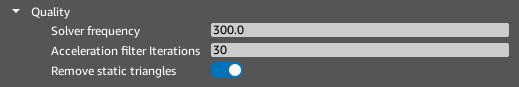
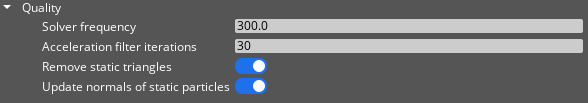
Added 'Update normals of static particles' field to Cloth Component. Picture updated as well.

diff --git a/content/docs/user-guide/components/reference/cloth.md b/content/docs/user-guide/components/reference/cloth.md
@@ -300,3 +300,6 @@ Number of iterations to average the delta time factor used for gravity and exter
 
 **Remove static triangles**
 Enable to remove triangles composed of static cloth particles\. Enabling this property improves performance, however the removed static cloth particles will not be present for collision and self collision calculations\.
+
+**Update normals of static particles**
+When enabled the normals of static particles will be updated according with the movement of the simulated mesh\. When disabled the static particles will keep the same normals as the original mesh\.
